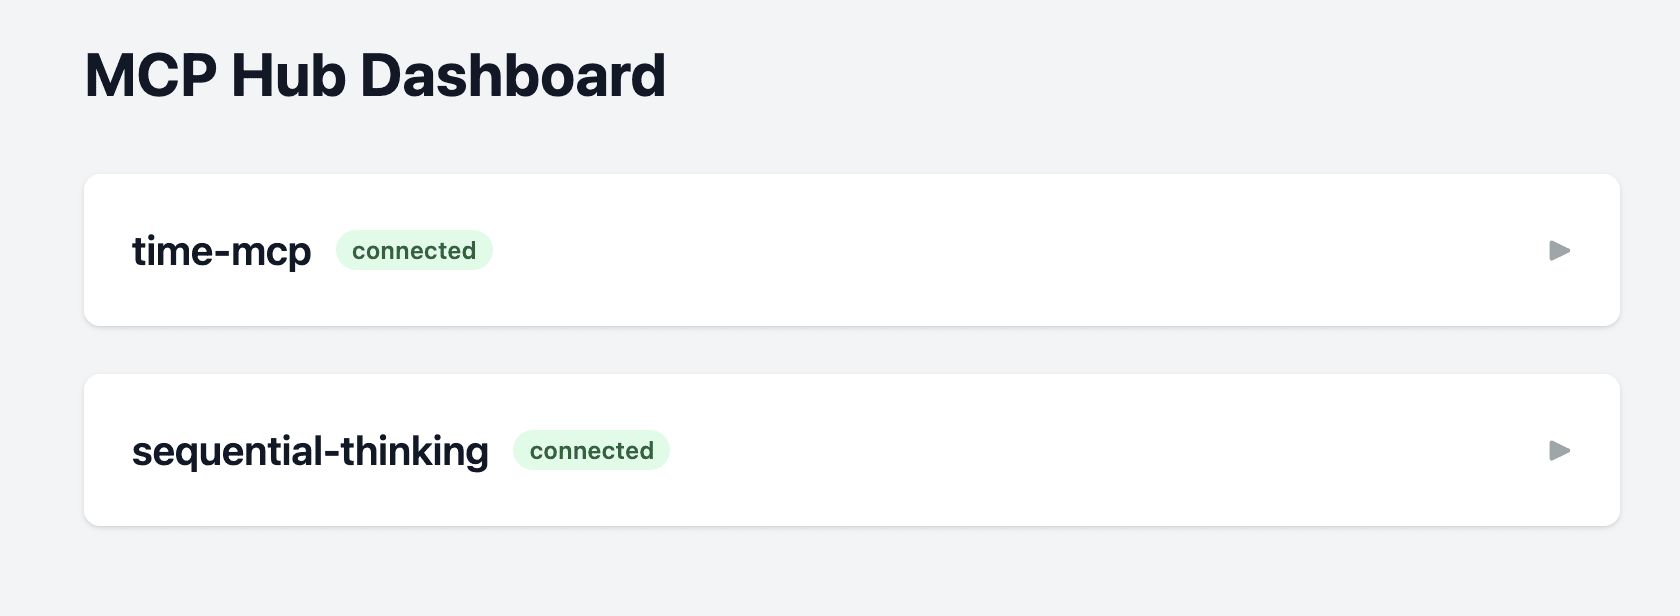
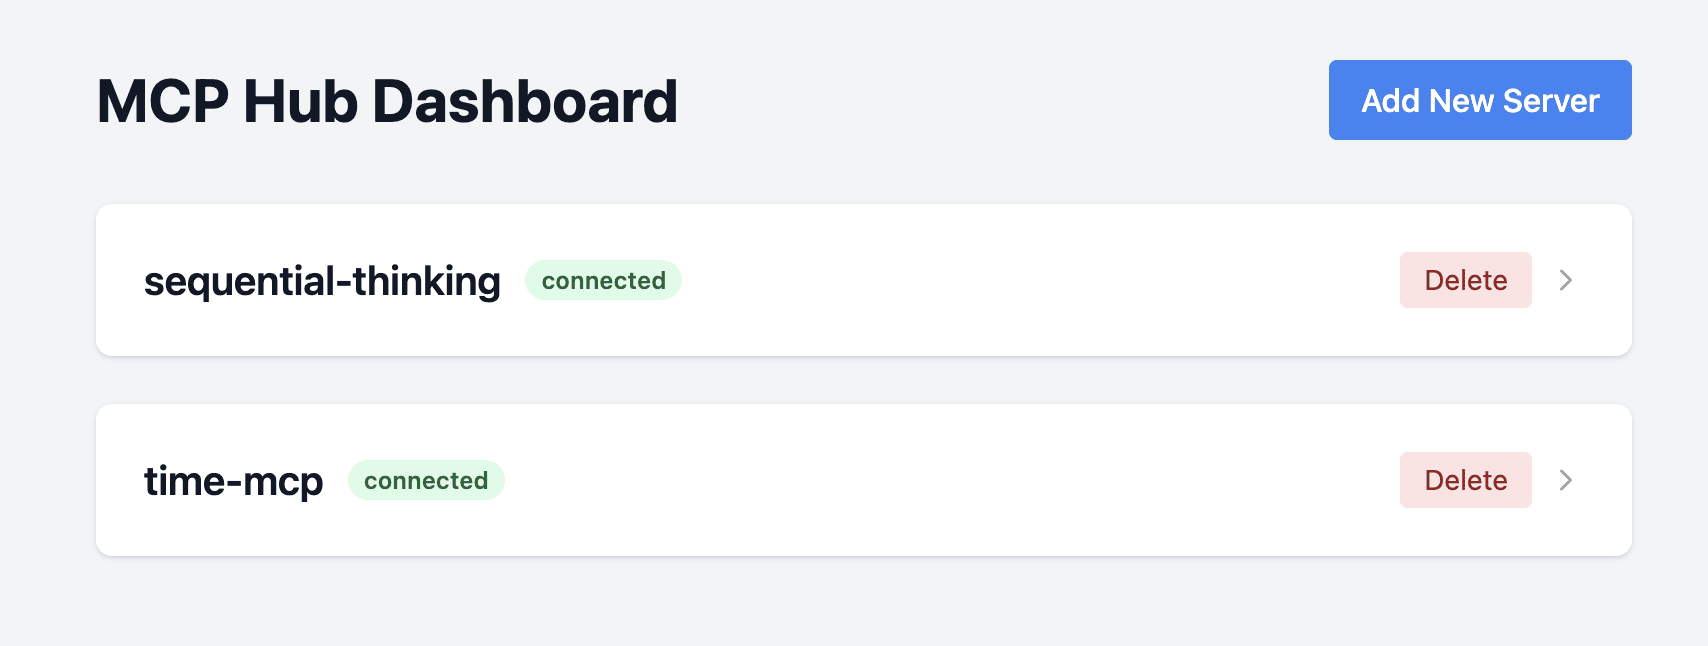
docs: update README to enhance feature descriptions and quick start instructions; improve dashboard management details

diff --git a/README.md b/README.md
@@ -1,17 +1,49 @@
-# MCPHub
+# MCPHub: Multiple Servers, Single Endpoint, Zero Hassle
 
 MCPHub is a unified hub server that consolidates multiple MCP (Model Context Protocol) servers into a single SSE endpoint. It simplifies service management and provides a centralized interface for all your MCP needs.
+
+![Dashboard Preview](assets/dashboard.png)
 
 ## Features
 
 - **Centralized Management**: Manage multiple MCP servers from a single hub
 - **Protocol Support**: Compatible with stdio and SSE MCP protocols
-- **Dashboard UI**: Monitor server status through a web interface
-- **Easy Configuration**: Simple JSON-based configuration system
+- **Dashboard UI**: Monitor server status and dynamically manage servers through a web interface
+- **Dynamic Management**: Add, remove, or reconfigure MCP servers without restarting the hub
 
-## Configuration
+## Quick Start
 
-Create a `mcp_settings.json` file in your project root:
+### Docker
+
+```bash
+docker run -p 3000:3000 samanhappy/mcphub
+```
+
+### Dashboard
+
+Access the interactive management UI at `http://localhost:3000`
+
+The dashboard provides:
+
+- Real-time monitoring of all MCP servers
+- Status indicators for all connected services
+- Dynamic addition or removal of new MCP servers without restarting
+
+### SSE endpoint
+
+Connect your Host App, such as Claude Desktop, Cursor, Cherry Studio, and more, seamlessly to `http://localhost:3000/sse`.
+
+## Local Development
+
+### Clone the Repository
+
+```bash
+git clone https://github.com/samanhappy/mcphub.git
+```
+
+### Configuration (Optional)
+
+Edit the `mcp_settings.json` file:
 
 ```json
 {
@@ -28,38 +60,11 @@ Create a `mcp_settings.json` file in your project root:
 }
 ```
 
-## Installation
-
-### Docker (Recommended)
+### Start the Server
 
 ```bash
-docker run -p 3000:3000 -v $(pwd)/mcp_settings.json:/app/mcp_settings.json samanhappy/mcphub
+cd mcphub && pnpm install && pnpm dev
 ```
-
-### Manual Installation
-
-```bash
-git clone https://github.com/samanhappy/mcphub.git
-cd mcphub
-pnpm install
-pnpm dev
-```
-
-## Usage
-
-### Dashboard
-Access the monitoring UI at `http://localhost:3000`
-
-![Dashboard Preview](assets/dashboard.png)
-
-### API Endpoint 
-Connect your applications to `http://localhost:3000/sse`
-
-
-## Requirements
-
-- Node.js 14+ (for manual installation)
-- Docker (for containerized deployment)
 
 ## License
 
